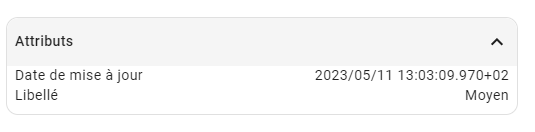
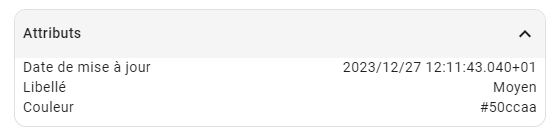
update doc : dashboard example

diff --git a/README.md b/README.md
@@ -2,10 +2,10 @@
 
 Composant pour exposer les niveaux de pollution prévus pour le jour même.
 
-Données fournies par Atmo France et les agences régionales.  
+Données fournies par Atmo France et les agences régionales.
 Voir https://www.atmo-france.org/ pour l'accès web.
 
-L'intégration expose les données d'Atmo France pour une commune donnée.  
+L'intégration expose les données d'Atmo France pour une commune donnée.
 Les données exposées sont :
 - Niveau de pollution Dioxyde d'Azote (NO<sub>2</sub>)
 - Niveau de pollution Ozone (O<sub>3</sub>)
@@ -16,7 +16,7 @@ Les données exposées sont :
 
 ## Installation
 
-Utilisez [HACS](https://hacs.xyz/).  
+Utilisez [HACS](https://hacs.xyz/).
 [![Ouvrez votre instance Home Assistant et ouvrez un référentiel dans la boutique communautaire Home Assistant.](https://my.home-assistant.io/badges/hacs_repository.svg)](https://my.home-assistant.io/redirect/hacs_repository/?owner=sebcaps&repository=atmofrance&category=integration)
 
 ## Configuration
@@ -45,8 +45,70 @@ Puis sélectionner le code postal de la commune dont on souhaite obtenir les don
 
 ### Données
 
-Les informations présentées sont les niveaux de pollution sur une échelle de 1 (Bon) à 5 (Trés Mauvais).
+Les informations présentées sont les niveaux de pollution sur une échelle de 1 (Bon) à 6 (Extrêmement Mauvais), avec 0 (Indisponible) et 8 (événement).
 
-Le libellé du niveau est présent sous forme d'attribut du sensor. Sont également présents dans les attributs, la date et heure (UTC) de la mise à jour des données par AtmoFrance. **Les données sont mises à jour une fois par jour par Atmo France.**
+Les attributs suivants sont disponible:
+- Le libellé du niveau
+- La date et heure (UTC) de la mise à jour des données par AtmoFrance. **Les données sont mises à jour une fois par jour par Atmo France.**
+- La couleur associée au niveau de pollution (couleurs 'officielles' d'atmo france, au format hexadécimal)
 
 ![image info](/img/attributs.png)
+
+### Suggestion d'affichage
+
+
+![Dashboard](img/dashboard.png)
+:warning: **Prérequis** Cet affichage se base sur les composants:
+ - [custom-button-card](https://github.com/custom-cards)
+ - [decluttering-card](https://github.com/custom-cards/decluttering-card)
+
+Se référer à la doc de chacun des composants pour les détails.
+
+
+Configuration *modèle decluttering*
+```  yaml
+decluttering_templates:
+    atmofrance:
+        card:
+        type: custom:button-card
+        entity: '[[sensor]]'
+        name: |
+            [[[
+            return entity.attributes.friendly_name +' : ' + entity.attributes.Libellé
+            ]]]
+        styles:
+            icon:
+            - color: '[[[return entity.attributes.Couleur]]]'
+```
+
+Configuration du dashboard principal :
+``` yaml
+type: vertical-stack
+cards:
+  - type: custom:decluttering-card
+    template: atmofrance
+    variables:
+      - sensor: sensor.qualite_globale_paris
+  - type: horizontal-stack
+    cards:
+      - type: custom:decluttering-card
+        template: atmofrance
+        variables:
+          - sensor: sensor.pm10_paris
+      - type: custom:decluttering-card
+        template: atmofrance
+        variables:
+          - sensor: sensor.pm25_paris
+      - type: custom:decluttering-card
+        template: atmofrance
+        variables:
+          - sensor: sensor.dioxyde_d_azote_paris
+      - type: custom:decluttering-card
+        template: atmofrance
+        variables:
+          - sensor: sensor.ozone_paris
+      - type: custom:decluttering-card
+        template: atmofrance
+        variables:
+          - sensor: sensor.dioxyde_de_soufre_paris
+```
